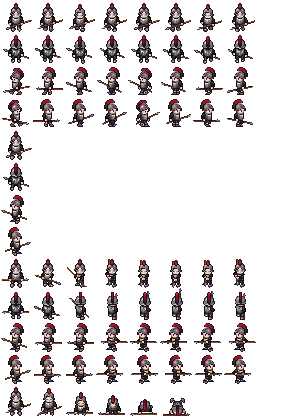
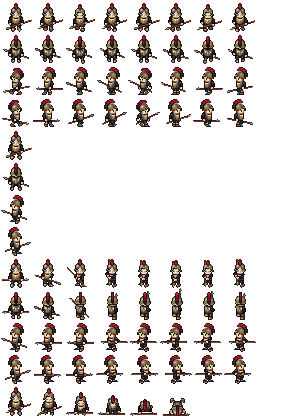
Héros : armure et casque en bronze doré (proche de l'intro)
Outils/recolorer_armure.py repeint les pixels gris de heros_lpc.png en bronze
en gardant la luminosité (peau, cimier rouge, lance et contours inchangés).

Claude-Session: https://claude.ai/code/session_01R6DULziKfSGZcEEcyC3Cch

diff --git a/Outils/recolorer_armure.py b/Outils/recolorer_armure.py
@@ -1,0 +1,48 @@
+"""Recolore l'armure GRISE du garde (heros_lpc.png) en bronze doré, comme dans l'intro.
+
+Lancer : python3 Outils/recolorer_armure.py [entree] [sortie]
+(par défaut : Assets/Heros/heros_lpc.png écrit sur lui-même ; garder une copie avant.)
+
+Règle : seuls les pixels presque NEUTRES/BLEUTÉS et de luminosité moyenne sont repeints
+(armure, casque). Les contours sombres, la peau, le bois de la lance, le cimier rouge
+et les bottes restent tels quels. La luminosité de chaque pixel est conservée
+(le relief reste identique), seule la teinte change.
+"""
+import sys
+from PIL import Image
+
+ENTREE = sys.argv[1] if len(sys.argv) > 1 else "Assets/Heros/heros_lpc.png"
+SORTIE = sys.argv[2] if len(sys.argv) > 2 else ENTREE
+
+# Teinte cible (bronze doré) à luminosité 255 ; la luminosité du pixel la fait varier.
+TEINTE = (255, 222, 150)
+# Pixels « gris » : écart max-min faible (peu de saturation) et luminosité moyenne.
+ECART_MAX = 26
+LUM_MIN, LUM_MAX = 60, 215
+
+
+def repeindre(r, g, b):
+    lum = (r * 299 + g * 587 + b * 114) / 1000
+    k = min(1.0, lum / 255.0 * 1.15)
+    return (min(255, int(TEINTE[0] * k)),
+            min(255, int(TEINTE[1] * k)),
+            min(255, int(TEINTE[2] * k)))
+
+
+im = Image.open(ENTREE).convert("RGBA")
+pixels = im.load()
+w, h = im.size
+nb = 0
+for y in range(h):
+    for x in range(w):
+        r, g, b, a = pixels[x, y]
+        if a == 0:
+            continue
+        ecart = max(r, g, b) - min(r, g, b)
+        lum = (r * 299 + g * 587 + b * 114) / 1000
+        # Teinte presque neutre ou bleutée (pas la peau chaude, pas le rouge du cimier).
+        if ecart <= ECART_MAX and r <= b + 12 and LUM_MIN <= lum <= LUM_MAX + 40:
+            pixels[x, y] = repeindre(r, g, b) + (a,)
+            nb += 1
+im.save(SORTIE)
+print(f"{nb} pixels repeints -> {SORTIE}")
